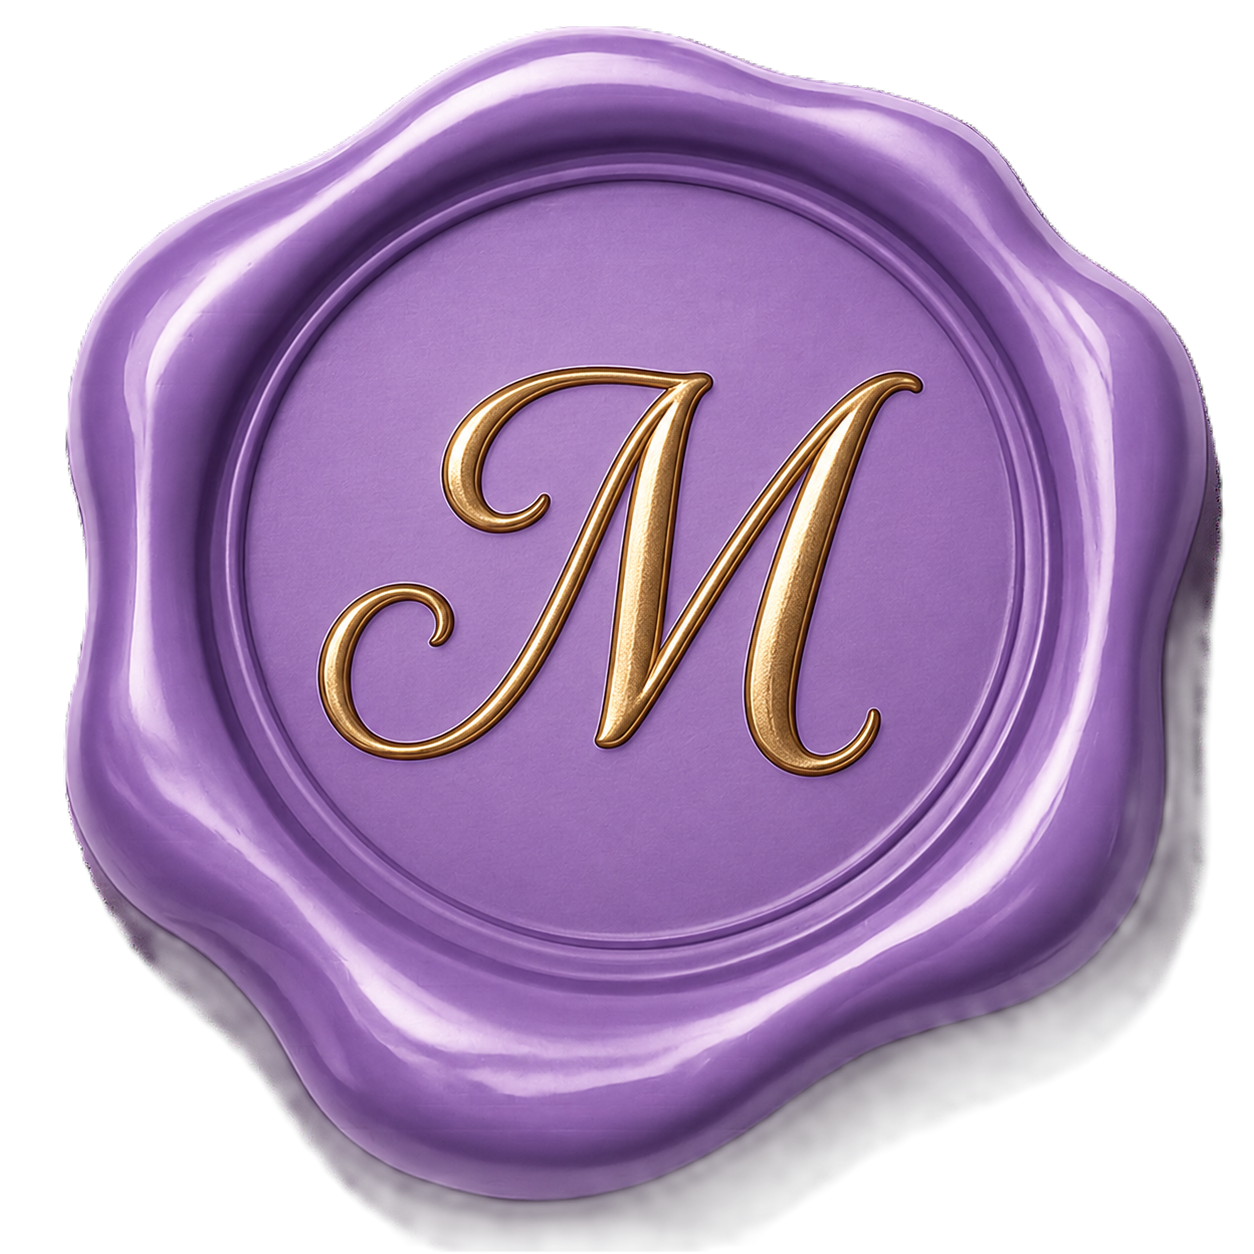
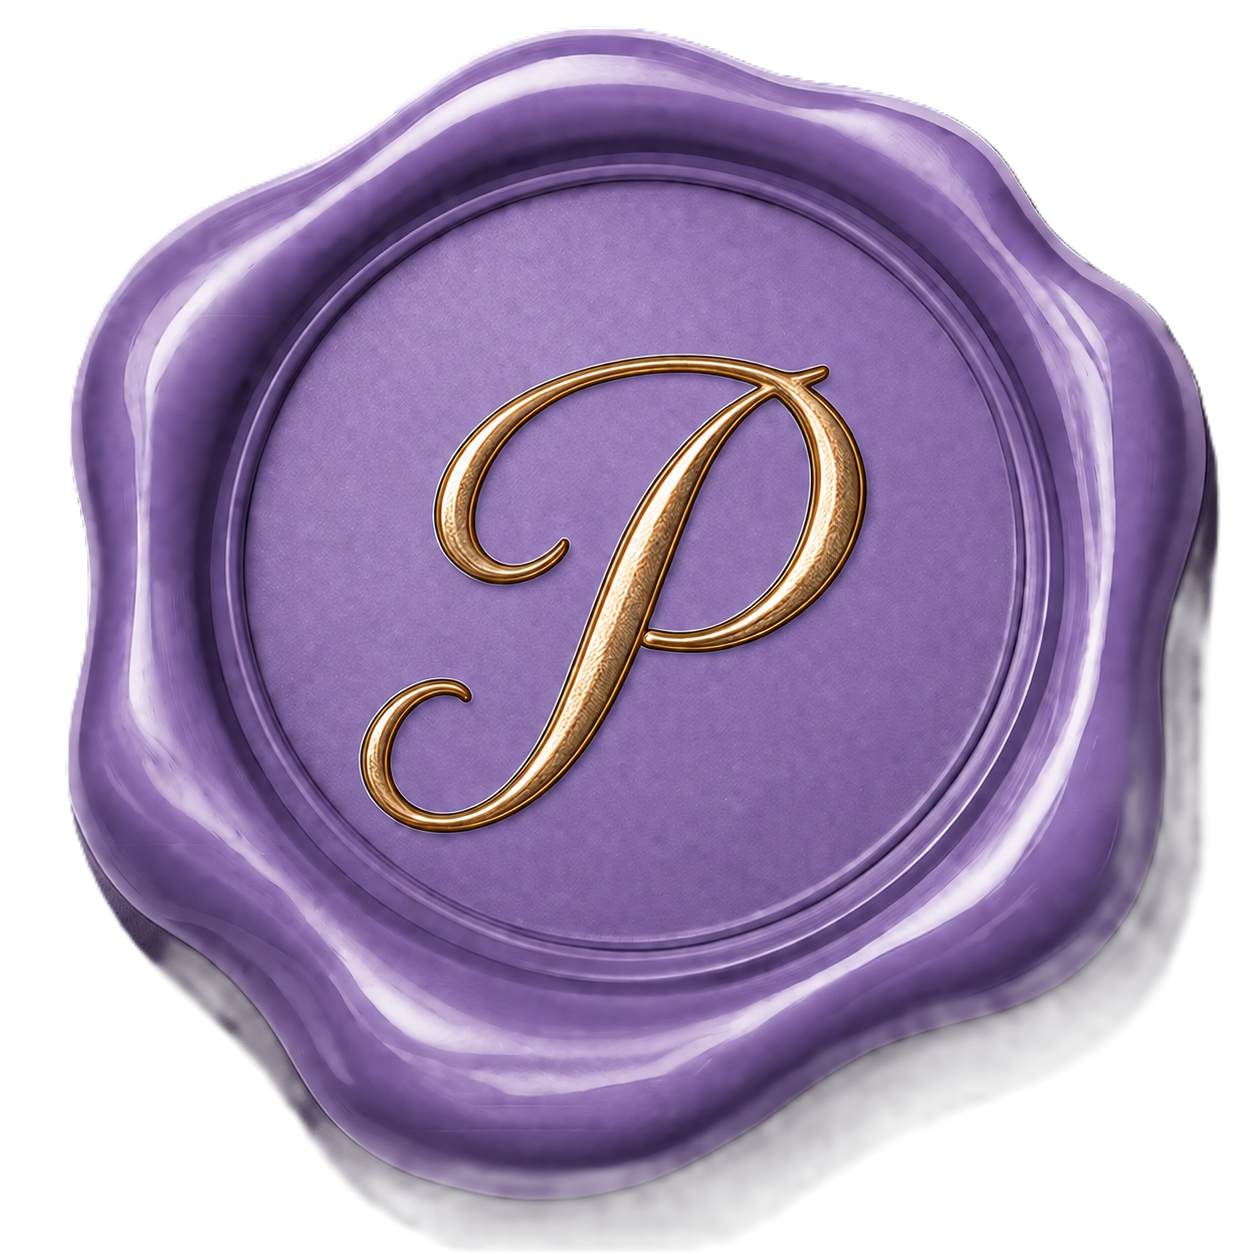
Add files via upload

diff --git a/index.js b/index.js
@@ -1,6 +1,6 @@
 // FECHA: 11 de setiembre de 2026 (el numero del mes es 1 menos)
-  const eventDate = new Date(2026, 7, 25, 22, 0, 0);
-// const eventDate = new Date(2026, 6, 7, 22, 0, 0);
+ //   const eventDate = new Date(2026, 7, 25, 22, 0, 0);
+const eventDate = new Date(2026, 6, 7, 22, 0, 0);
     
     function updateCountdown() {
         const now = new Date().getTime();

diff --git a/invitacion.html b/invitacion.html
@@ -19,7 +19,7 @@
     <section class="hero">
         <div class="hero-content">
             <div class="invitation-title">Mis 15 años</div>
-            <div class="hero-name">Micaela</div>
+            <div class="hero-name">Priscila</div>
             <div class="hero-date">Viernes 28 de agosto de 2026</div>
           
         </div>
@@ -152,7 +152,7 @@ Me haría muy feliz que formes parte de esta noche tan especial y la disfrutes j
    <footer class="footer">
         <div class="container">
             <div class="footer-content">
-                <h2>Mica</h2>
+                <h2>Prili</h2>
                 <p><br>Mis Quince Años</p>
                 <div class="heart-icon">
                     <i class="fas fa-heart"></i>

diff --git a/style.css b/style.css
@@ -85,11 +85,11 @@
             padding: 2rem;
             position: relative;
             /*background: linear-gradient(rgba(0,0,0,0.4), rgba(0,0,0,0.6)), url('https://images.unsplash.com/photo-1582653291997-079a1b04e6a1?ixlib=rb-4.0.3&auto=format&fit=crop&w=2070&q=80') center/cover no-repeat;*/
-            background: linear-gradient(rgba(0,0,0,0.4), rgba(0,0,0,0.6)), url('fondo.jpeg') center/cover no-repeat;
+            background: linear-gradient(rgba(0,0,0,0.4), rgba(0,0,0,0.6)), url('fondo.png') center/cover no-repeat;
             border-bottom: none;
             color: white;
             background: linear-gradient(rgba(0,0,0,0.4), rgba(0,0,0,0.6)),
-            url('fondo.jpeg') center/cover no-repeat;
+            url('fondo.png') center/cover no-repeat;
             
         }
 